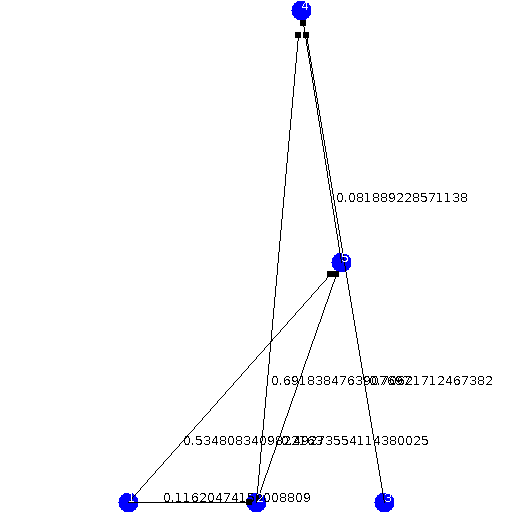
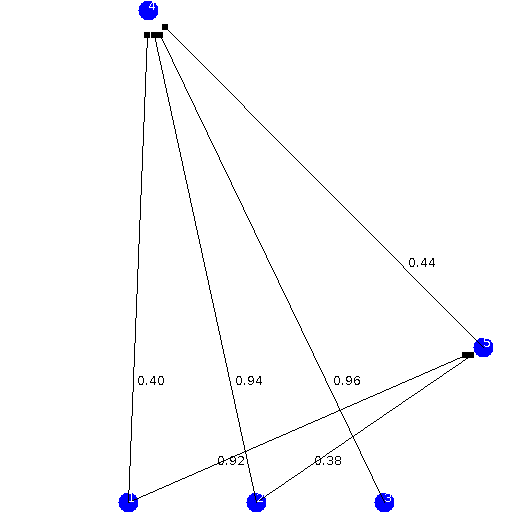
Forgot to add some files

diff --git a/src/com/neat/Genome.java b/src/com/neat/Genome.java
@@ -9,7 +9,7 @@ import java.util.Random;
  * @author Petar
  */
 public class Genome {
-    Random random = new Random();
+    Random random; 
     
     double fitness = 0;
 
@@ -22,6 +22,7 @@ public class Genome {
         this.outputCount = outputCount;
         connectionGenes = new HashMap<>();
         nodeGenes = new HashMap<>();
+        random = new Random();
     }
 
     public Genome(){
@@ -63,7 +64,7 @@ public class Genome {
     }
     
     public void addNodeMutation(){
-        ConnectionGene toDisable = connectionGenes.get(random.nextInt(connectionGenes.size()));
+        ConnectionGene toDisable = getRandomConnectionGene();
         toDisable.disable();
         NodeGene newNode = addNodeGene();
         addConnectionGene(toDisable.from, newNode, 1);
@@ -71,8 +72,17 @@ public class Genome {
     }
     
     NodeGene getRandomNode(){
-        //input and output nodes are added first so we can isolate the hidden ondes
-        return nodeGenes.get(random.nextInt(nodeGenes.size()));
+        Integer i;
+        i = (Integer)nodeGenes.keySet().toArray()[random.nextInt(nodeGenes.keySet().size())];
+
+        return nodeGenes.get(i);
+    }
+
+    ConnectionGene getRandomConnectionGene(){
+        Integer i;
+        i = (Integer)connectionGenes.keySet().toArray()[random.nextInt(connectionGenes.keySet().size())];
+
+        return connectionGenes.get(i);
     }
     
     public void addConnectionMutation(){

diff --git a/src/com/test/print/GenomePrintTest.java b/src/com/test/print/GenomePrintTest.java
@@ -22,24 +22,22 @@ public class GenomePrintTest {
         }
 
 
-
         genome.addNodeGene(TYPE.OUTPUT);
 
         genome.addNodeGene();
 
-        genome.addConnectionGene(genome.getNodeGenes().get(1), genome.getNodeGenes().get(2));
+        genome.addConnectionGene(genome.getNodeGenes().get(1), genome.getNodeGenes().get(4));
         genome.addConnectionGene(genome.getNodeGenes().get(2), genome.getNodeGenes().get(4));
         genome.addConnectionGene(genome.getNodeGenes().get(3), genome.getNodeGenes().get(4));
         genome.addConnectionGene(genome.getNodeGenes().get(2), genome.getNodeGenes().get(5));
         genome.addConnectionGene(genome.getNodeGenes().get(5), genome.getNodeGenes().get(4));
         genome.addConnectionGene(genome.getNodeGenes().get(1), genome.getNodeGenes().get(5));
 
-
-        int input = GenomePrinter.countNodesByType(genome, TYPE.INPUT);
-        int hidden = GenomePrinter.countNodesByType(genome, TYPE.HIDDEN);
-        int output = GenomePrinter.countNodesByType(genome, TYPE.OUTPUT);
-        System.out.printf("INPUT: %d \nOUTPUT: %d \nHIDDEN: %d\n", input, output, hidden);
         GenomePrinter.printGenome(genome, "./before.png");
+
+        genome.addNodeMutation();
+
+        GenomePrinter.printGenome(genome, "./after.png");
     }
     
 }

diff --git a/src/com/test/print/GenomePrinter.java b/src/com/test/print/GenomePrinter.java
@@ -63,7 +63,7 @@ public class GenomePrinter {
 			
 			g.drawLine(inNode.x, inNode.y, inNode.x+lineVector.x, inNode.y+lineVector.y);
 			g.fillRect(inNode.x+lineVector.x-connectionSizeBulb/2, inNode.y+lineVector.y-connectionSizeBulb/2, connectionSizeBulb, connectionSizeBulb);
-			g.drawString(""+gene.getWeight(), (int)(inNode.x+lineVector.x*0.25f+5), (int)(inNode.y+lineVector.y*0.25f));
+			g.drawString(String.format("%.2f", gene.getWeight()), (int)(inNode.x+lineVector.x*0.25f+5), (int)(inNode.y+lineVector.y*0.25f));
 		}
 		
 		g.setColor(Color.WHITE);

diff --git a/src/com/neat/NodeGene.java b/src/com/neat/NodeGene.java
@@ -17,6 +17,8 @@ public class NodeGene {
     ArrayList<ConnectionGene> outputs = new ArrayList<>();
     ArrayList<NodeGene> connectedNodes = new ArrayList<>();
 
+    
+
     public NodeGene(int innovation, TYPE type, Random random){
         this.innovation = innovation;
         this.type = type;
